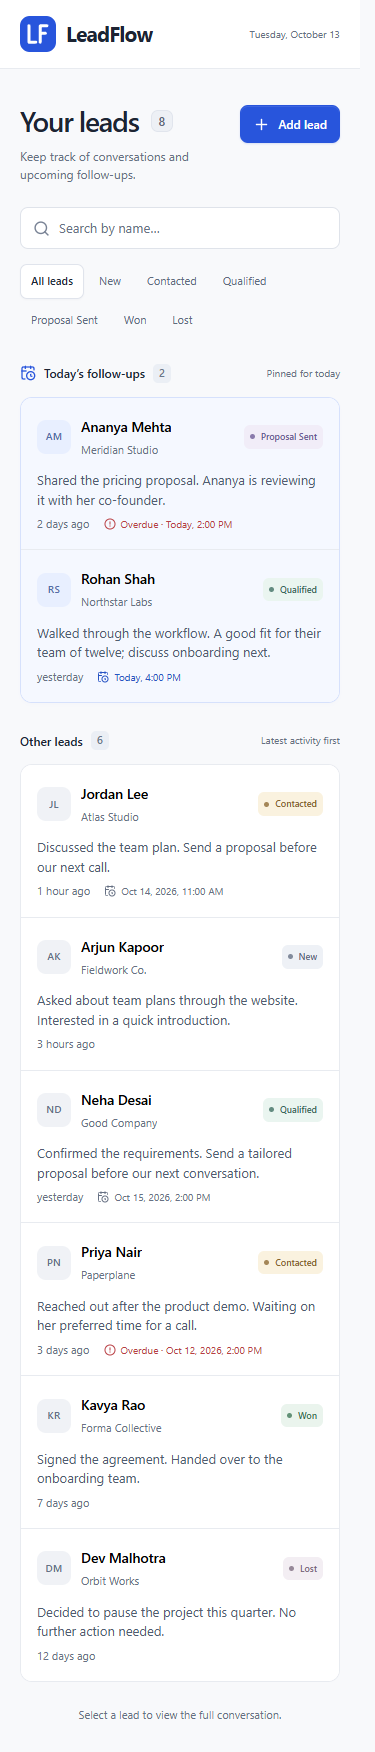
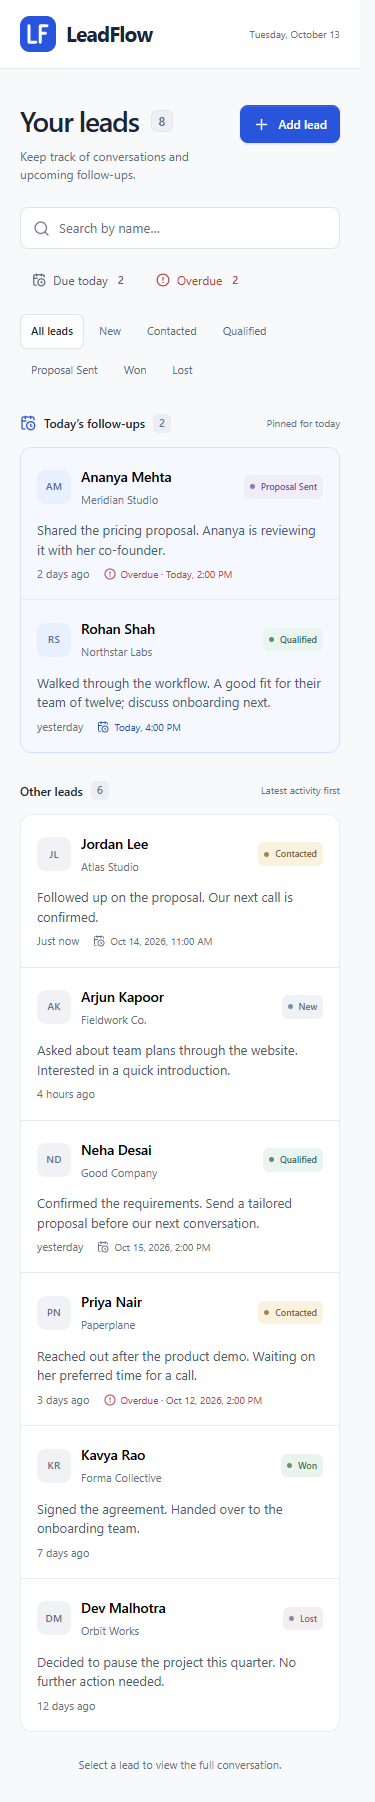
Add automated checks and refresh workflow documentation and screenshots

diff --git a/README.md b/README.md
@@ -1,5 +1,7 @@
 # LeadFlow
 
+[![Checks](https://github.com/Abhinav-0311/Leadflow/actions/workflows/checks.yml/badge.svg)](https://github.com/Abhinav-0311/Leadflow/actions/workflows/checks.yml)
+
 A single-screen CRM for tracking leads, logging discussions, and managing follow-ups. Built for the PravarAI fullstack internship assessment with Next.js, TypeScript, FastAPI, and SQLite.
 
 ![LeadFlow workspace](docs/screenshots/workspace.png)
@@ -78,6 +80,8 @@ Database paths are relative to the backend working directory. SQLite is the supp
 - Save a note and optionally schedule a follow-up. Both the dialog and the list update from the saved API response.
 - Update a lead's status from the dialog and retain it after a refresh or restart.
 - Recognize overdue follow-ups by an explicit red “Overdue” label.
+- Narrow the list to due-today or overdue follow-ups, combined with name and status filters.
+- Mark a follow-up complete from the lead dialog. The current reminder clears immediately while the original discussion and scheduled date stay in history.
 - Use the app with a keyboard or at a mobile viewport width.
 
 Forms show saving states, retain drafts when requests fail, and confirm before discarding unsaved work. Empty lists, no search matches, empty timelines, and failed loads each have a relevant next action.
@@ -89,6 +93,8 @@ Forms show saving states, retain drafts when requests fail, and confirm before d
 - A follow-up earlier than the current time is overdue, including an elapsed appointment today. Today's elapsed appointments stay in the pinned section.
 - Search and status filters apply to both sections. Other leads are ordered by latest discussion, falling back to creation time. Equal timestamps use IDs for a stable order.
 - A new note without a follow-up keeps the existing appointment. A new scheduled follow-up replaces the lead's current appointment; earlier schedules remain visible on their original discussion notes.
+- Completing a follow-up clears the current appointment, preserves all discussion history, and leaves any unsaved note in the composer. Completing an already-cleared reminder is safe to repeat.
+- Due-today and overdue filter counts respect the current name and status filters. An elapsed appointment today appears in both counts; each lead is still shown once in the list.
 - Status changes preserve notes and scheduled dates. Won and Lost remain available in the list and filters.
 - Notes are required, trimmed, and limited to 5,000 characters. Names are limited to 120 characters, company names to 160, and phone numbers to 40. Phone is free text to accommodate international formats.
 - Demo appointments are generated relative to the seed date in India Standard Time. Browsers in other timezones display those same appointments in their own local time. Re-running seed does not shift existing appointments.
@@ -121,6 +127,7 @@ The API uses SQLModel's timezone-aware storage and one database transaction for 
 | GET | `/api/leads/{id}` | One lead with its latest-note summary |
 | POST | `/api/leads` | Create a lead (`201`) |
 | PATCH | `/api/leads/{id}` | Change status (`200`) |
+| DELETE | `/api/leads/{id}/follow-up` | Complete the current follow-up (`200` with updated lead) |
 | GET | `/api/leads/{id}/discussions` | Full history, newest first |
 | POST | `/api/leads/{id}/discussions` | Save note and optional follow-up (`201`) |
 
@@ -146,15 +153,18 @@ npx playwright install chromium
 npm test
 ```
 
-Browser tests start their own API and frontend on ports `18000` and `3100`, using a separate ignored `backend/e2e.db`. They cover the full create → discuss → schedule → change status → reload flow, filtering, search, failed saves, load retry, keyboard focus, overdue labels, and mobile overflow. Unit tests cover local-day boundaries and stable grouping. API tests cover validation, persistence, seed safety, timestamp ties, and transaction rollback.
+Browser tests start their own API and frontend on ports `18000` and `3100`, using a separate ignored `backend/e2e.db`. They cover the full create → discuss → schedule → change status → reload flow, combined filters, completion, retained drafts, failed requests, load retry, keyboard focus, overdue labels, and mobile overflow. Unit tests cover local-day boundaries and stable grouping. API tests cover validation, persistence, seed safety, timestamp ties, completion history, and transaction rollback.
 
-Verified on 13 October 2026: 10 API tests, 6 grouping/date tests, and 10 browser tests passed; TypeScript and the production build passed. The Docker build completed the working flow, and an API container restart preserved the new lead, note, status, and follow-up. Manual browser checks covered 375px phones, tablets, phone rotation, and reduced motion. Mobile checks used Chromium emulation, not physical devices or Safari.
+GitHub Actions runs API tests, grouping tests in UTC and America/Los_Angeles, a production build (including TypeScript), and the desktop/mobile browser suite on pushes to `main` and pull requests. It uses read-only repository permissions and requires no secrets.
+
+Verified on 13 October 2026: 11 API tests, 8 grouping/date tests, and 16 browser tests passed; TypeScript and the production build passed. The Docker build completed the working flow, and an API container restart preserved the new lead, note, status, and follow-up. Manual browser checks covered 375px phones, tablets, phone rotation, and reduced motion. Mobile checks used Chromium emulation, not physical devices or Safari.
 
 ## Screenshots
 
 - [Workspace](docs/screenshots/workspace.png)
 - [Add lead](docs/screenshots/add-lead.png)
 - [Discussion timeline](docs/screenshots/timeline.png)
+- [Overdue follow-up focus](docs/screenshots/follow-ups.png)
 - [Mobile workspace](docs/screenshots/mobile.png)
 
 ## Scope and AI use
